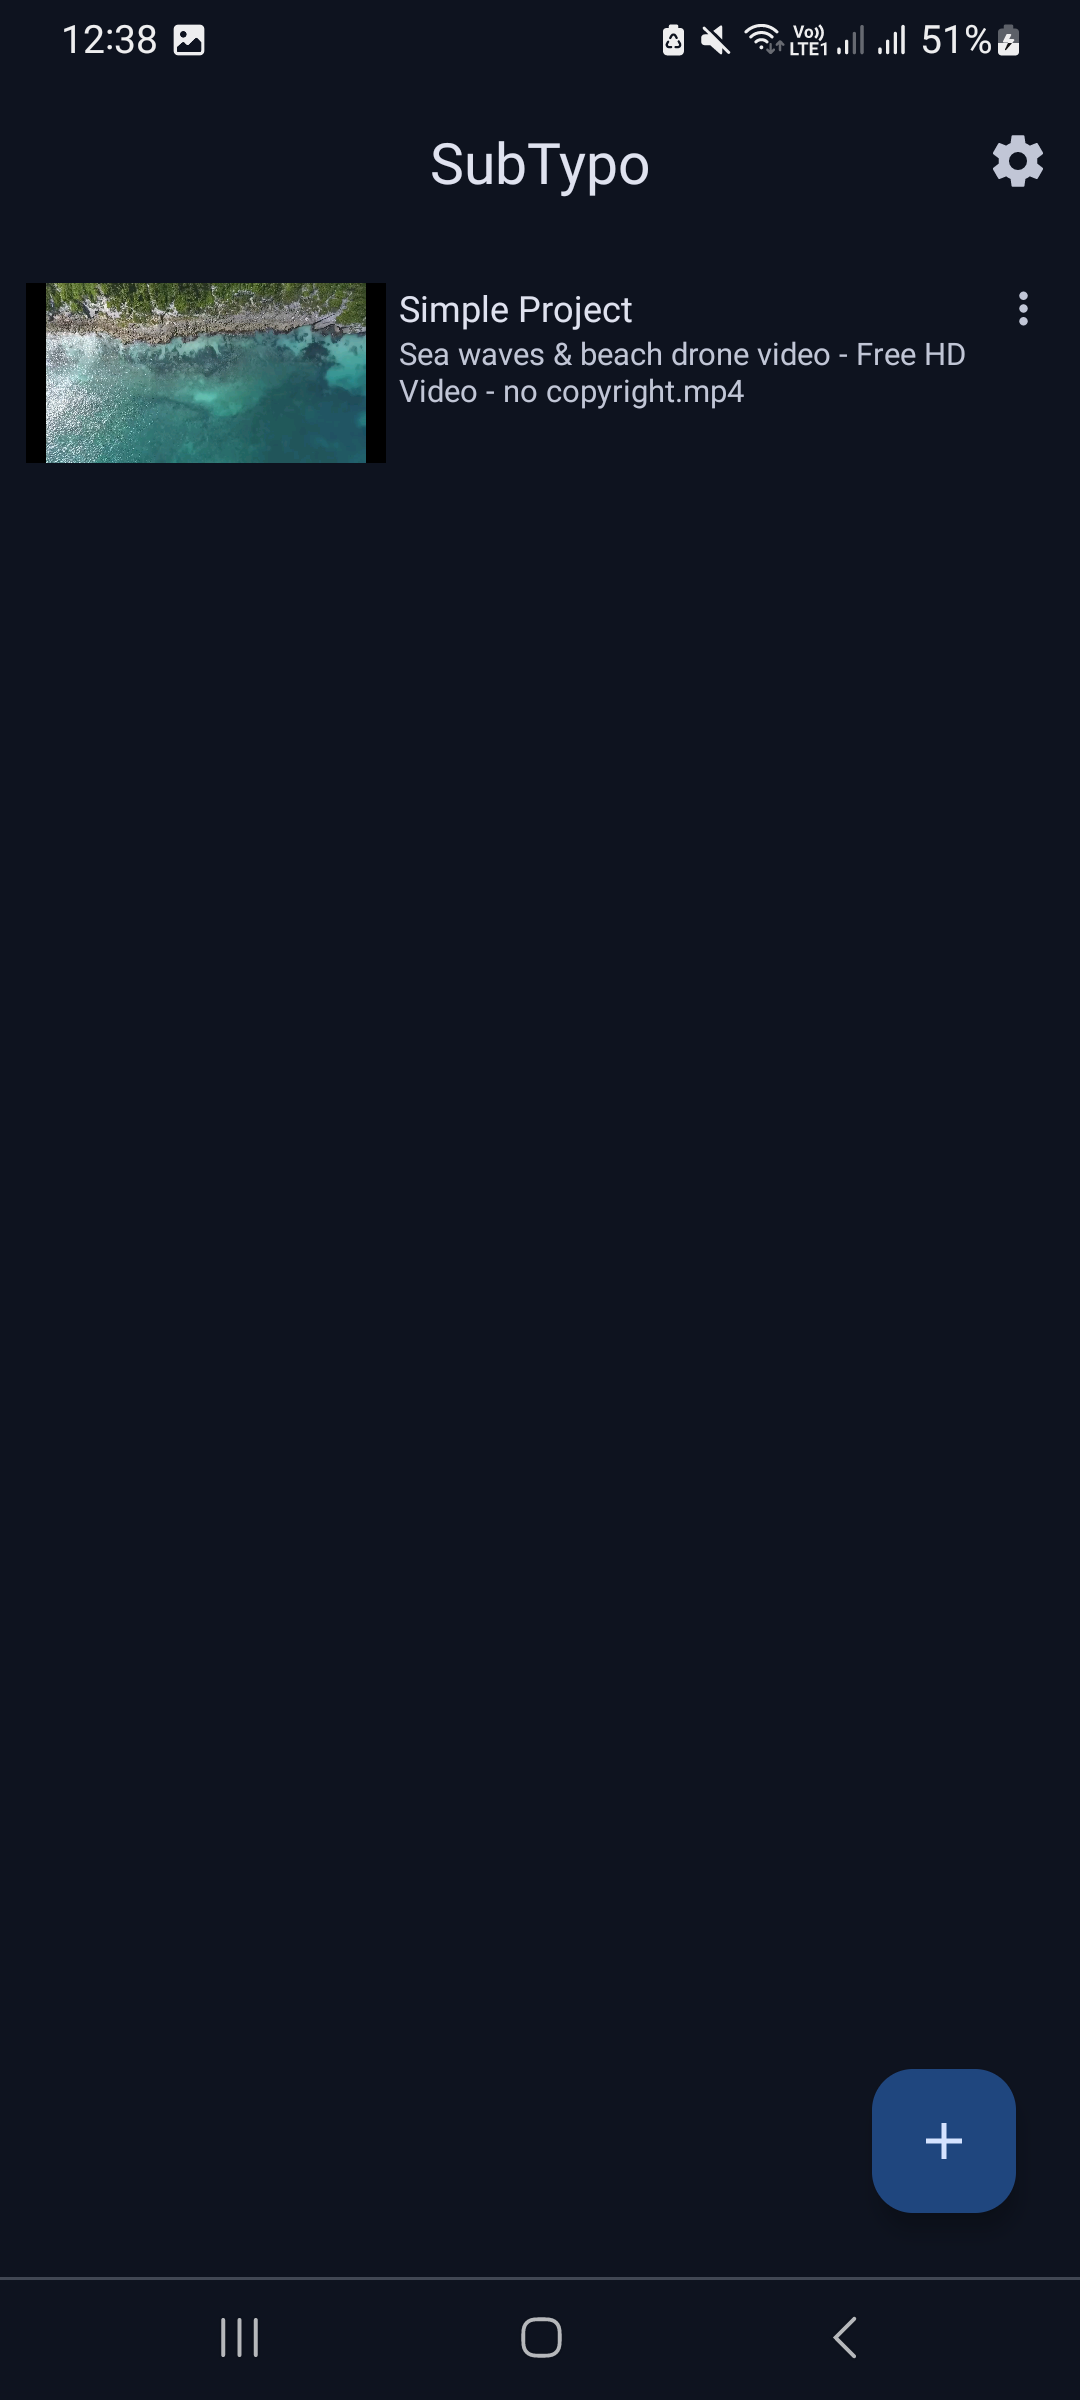
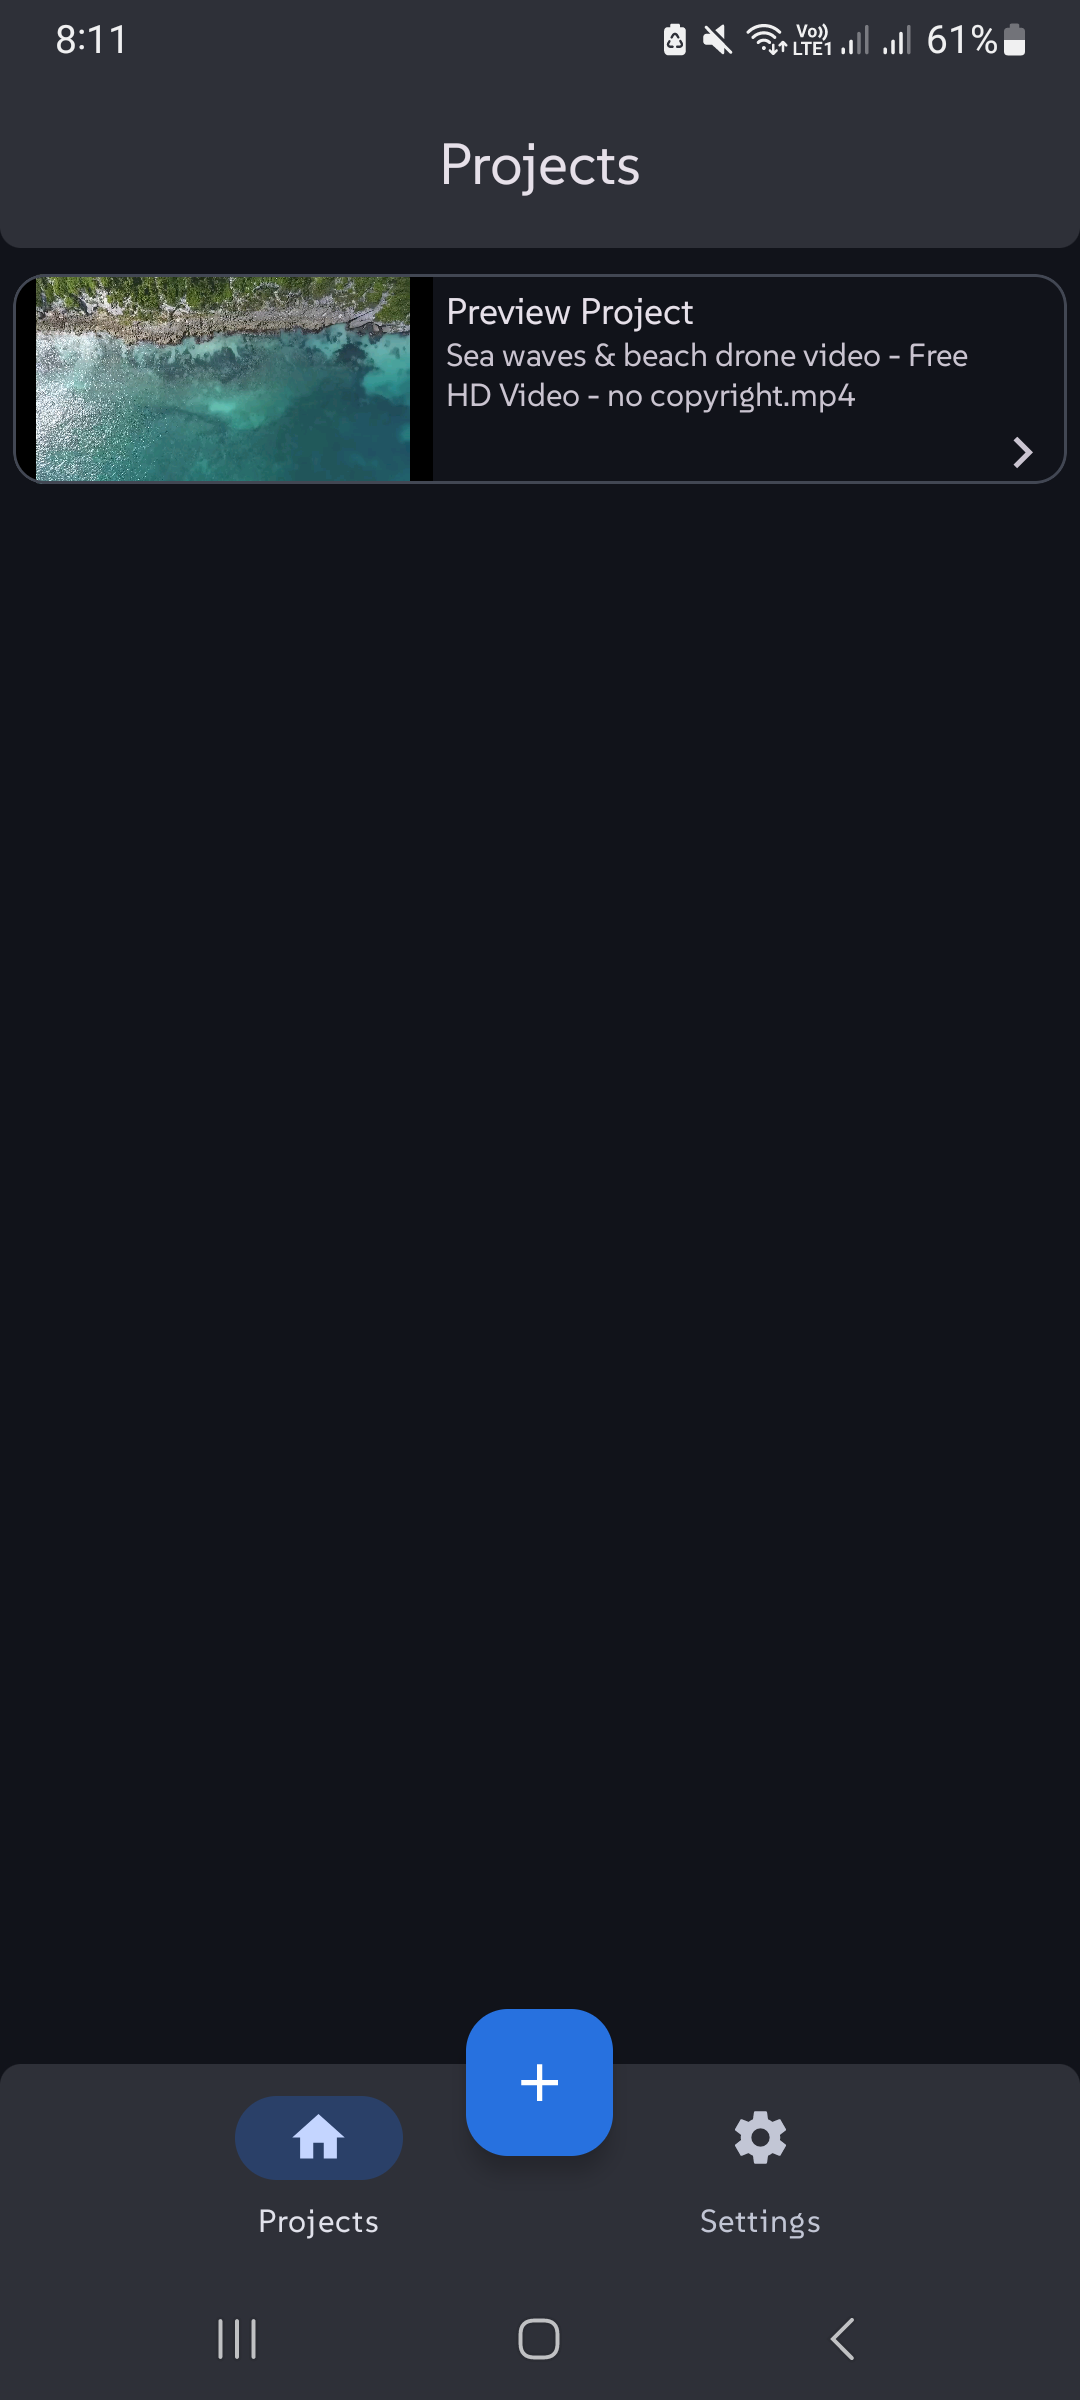
update v1.2.0 changelog and screenshots

Changed region(s): [[0.0, 0.0, 1.0, 0.2188], [0.0, 0.8125, 1.0, 1.0]]

diff --git a/changelogs/v.1.2.0.md b/changelogs/v.1.2.0.md
@@ -10,17 +10,22 @@ Written by: @teixeira0x
 
 ## Note
 
-The subtitle saving system has been updated again to implement the system of being able to edit multiple subtitles in a single project. Subtitles from projects created in previous versions will be lost. I apologize again.
+- We recommend that you save your subtitles created in the previous version before upgrading to this one.
 
 ## Changes
-- Various interface improvements.
-- Improved permission request.
-- Improve subtitle import and saving.
-
+- The app's UI has been completely revamped to provide a better experience. 
+- Improved required permission dialog.
+- Improved subtitle saving and importing.
+ 
 ## Additions
-- Adds option to edit more than one caption in a single project.
+- Adds subtitle selector.
+- Preference to enable and disable Material You
+
+## Removals
+- Preference category "Development"
 
 ## Fixes
+- The user can still choose a video without granting the necessary permission.
 - Undo & Redo.
 
 <hr/>

diff --git a/README.md b/README.md
@@ -19,6 +19,8 @@
 <img width="150" height="350" src="fastlane/metadata/android/en-US/images/phoneScreenshots/1.png">
 <img width="150" height="350" src="fastlane/metadata/android/en-US/images/phoneScreenshots/2.png">
 <img width="150" height="350" src="fastlane/metadata/android/en-US/images/phoneScreenshots/3.png">
+<img width="150" height="350" src="fastlane/metadata/android/en-US/images/phoneScreenshots/4.png">
+<img width="150" height="350" src="fastlane/metadata/android/en-US/images/phoneScreenshots/5.png">
 
 </p>
 
